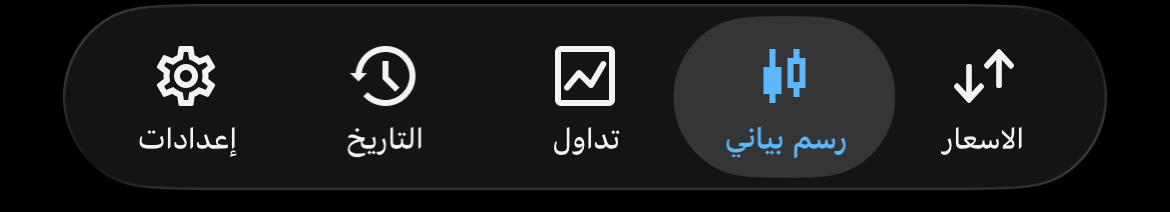
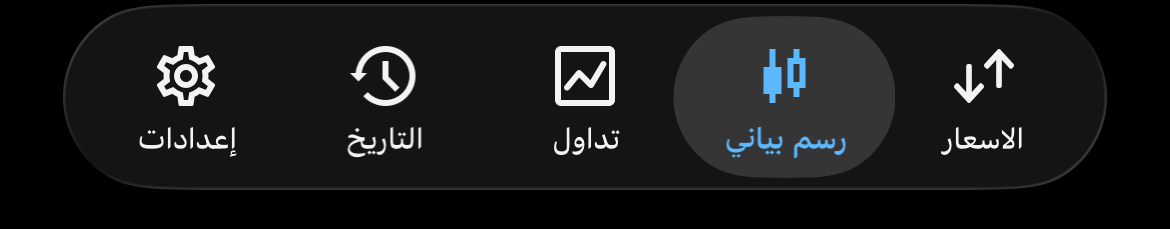
Add files via upload

diff --git a/index.html b/index.html
@@ -18,7 +18,7 @@
     <link rel="preconnect" href="https://fonts.gstatic.com" crossorigin>
     <link href="https://fonts.googleapis.com/css2?family=Inter:wght@400;500;700&family=Lato:wght@400;700&family=Montserrat:wght@400;500;700&family=Open+Sans:wght@400;600&family=Outfit:wght@400;500;700&family=Poppins:wght@400;500;600&family=Roboto:wght@400;500&display=swap" rel="stylesheet">
     
-    <link rel="stylesheet" href="styles.css?v=85">
+    <link rel="stylesheet" href="styles.css?v=88">
 </head>
 <body>
     <!-- Global error catcher to display any mobile browser javascript crash on screen -->
@@ -273,24 +273,24 @@
                         <!-- Account Metrics Summary -->
                         <div class="trade-account-summary">
                             <div class="trade-account-row">
-                                <span class="trade-row-label">رصيد الحساب:</span>
                                 <span class="trade-row-val" id="trade-balance-val">0.00</span>
+                                <span class="trade-row-label">رصيد الحساب:</span>
                             </div>
                             <div class="trade-account-row">
-                                <span class="trade-row-label">راس المال المتوفر:</span>
                                 <span class="trade-row-val" id="trade-equity-val">0.00</span>
+                                <span class="trade-row-label">راس المال المتوفر:</span>
                             </div>
                             <div class="trade-account-row" id="trade-margin-row" style="display: none;">
-                                <span class="trade-row-label">الهامش:</span>
                                 <span class="trade-row-val" id="trade-margin-val">0.00</span>
+                                <span class="trade-row-label">الهامش:</span>
                             </div>
                             <div class="trade-account-row">
-                                <span class="trade-row-label">هامش الحرية:</span>
                                 <span class="trade-row-val" id="trade-margin-free-val">0.00</span>
+                                <span class="trade-row-label">هامش الحرية:</span>
                             </div>
                             <div class="trade-account-row" id="trade-margin-level-row" style="display: none;">
-                                <span class="trade-row-label">مستوى الهامش (%):</span>
                                 <span class="trade-row-val" id="trade-margin-level-val">0.00</span>
+                                <span class="trade-row-label">مستوى الهامش (%):</span>
                             </div>
                         </div>
 
@@ -315,7 +315,7 @@
                     <div class="trade-action-sheet-overlay hidden" id="trade-action-sheet-overlay">
                         <div class="trade-action-sheet" id="trade-action-sheet">
                             <div class="trade-sheet-header">
-                                <div class="trade-sheet-title" id="trade-sheet-title">XAUUSD.s, buy 0.2</div>
+                                <div class="trade-sheet-title" id="trade-sheet-title">XAUUSD, buy 0.2</div>
                                 <div class="trade-sheet-sub" id="trade-sheet-sub">4346.50 &larr; 3651.72</div>
                             </div>
                             <div class="trade-sheet-actions">
@@ -566,7 +566,7 @@
                                 <input type="number" id="setting-trade-font-size-account" value="14" step="any" style="width: 60px; text-align: center;">
                             </div>
                             <div class="settings-item">
-                                <span>حجم خط رمز وعقد الصفقة (XAUUSD.s / Lot)</span>
+                                <span>حجم خط رمز وعقد الصفقة (XAUUSD / Lot)</span>
                                 <input type="number" id="setting-trade-font-size-symbol" value="14.5" step="any" style="width: 60px; text-align: center;">
                             </div>
                             <div class="settings-item">
@@ -949,6 +949,6 @@
         </div>
     </div>
 
-    <script src="app.js?v=85"></script>
+    <script src="app.js?v=88"></script>
 </body>
 </html>

diff --git a/styles.css b/styles.css
@@ -356,7 +356,7 @@ button, input, select, textarea {
     flex: 1;
     position: relative;
     overflow: hidden;
-    background: #fff;
+    background: #000000;
 }
 
 #main-chart-canvas {
@@ -705,8 +705,9 @@ button, input, select, textarea {
     position: relative;
     width: 100%;
     height: auto;
-    background: var(--bg-page-header);
-    border-top: none; /* removed line between time scale and bottom bar */
+    background: #000000 !important;
+    background-color: #000000 !important;
+    border-top: none !important;
     flex-shrink: 0;
     z-index: 50;
 }
@@ -824,12 +825,18 @@ body.trade-tab-active .bottom-nav-container {
     display: flex;
     align-items: center;
     justify-content: center;
+    align-self: center;
     color: #ffffff;
     cursor: pointer;
     outline: none;
     transition: transform 0.1s ease, opacity 0.15s ease;
     padding: 0;
+    margin: 0;
     overflow: hidden;
+}
+
+.trade-header-plus-btn {
+    margin-top: 2px; /* Moves left sticker down to align perfectly with right sticker */
 }
 
 .trade-header-btn:active {
@@ -878,7 +885,7 @@ body.trade-tab-active .bottom-nav-container {
 .trade-account-summary {
     padding: 2px 0 10px 0;
     background-color: #000000;
-    direction: rtl;
+    direction: ltr;
 }
 
 .trade-account-row {
@@ -888,6 +895,7 @@ body.trade-tab-active .bottom-nav-container {
     padding: 3.5px 6px;
     font-size: 14px;
     line-height: 1.35;
+    direction: ltr;
 }
 
 .trade-row-label {
@@ -895,6 +903,8 @@ body.trade-tab-active .bottom-nav-container {
     font-size: var(--trade-font-size-account, 14px);
     font-family: var(--trade-font-family, inherit);
     font-weight: var(--trade-font-weight-text, 400);
+    direction: rtl;
+    text-align: right;
 }
 
 .trade-row-val {
@@ -906,6 +916,9 @@ body.trade-tab-active .bottom-nav-container {
     letter-spacing: var(--trade-numbers-spacing, 0px);
     direction: ltr;
     text-align: left;
+    margin: 0;
+    padding: 0;
+    white-space: nowrap;
 }
 
 /* 4. Empty State: Center MT5 Trending Icon */
@@ -960,8 +973,8 @@ body.trade-tab-active .bottom-nav-container {
     display: flex;
     justify-content: space-between;
     align-items: center;
-    padding: 11px 6px;
-    border-bottom: 0.5px solid rgba(255, 255, 255, 0.09);
+    padding: 9.5px 6px;
+    border-bottom: none;
     background-color: #000000;
     cursor: pointer;
     direction: ltr; /* P/L on Left, Details on Right */
@@ -979,6 +992,10 @@ body.trade-tab-active .bottom-nav-container {
     font-family: var(--trade-font-numbers, inherit);
     letter-spacing: var(--trade-numbers-spacing, -0.3px);
     text-align: left;
+    direction: ltr;
+    margin: 0;
+    padding: 0;
+    white-space: nowrap;
 }
 
 .trade-pos-profit.profit {
@@ -1009,6 +1026,15 @@ body.trade-tab-active .bottom-nav-container {
 .trade-pos-symbol {
     color: #ffffff;
     font-family: var(--trade-font-family, inherit);
+    display: inline-block;
+    width: 43px;
+    height: 12px;
+    line-height: 12px;
+    font-size: 11.5px;
+    letter-spacing: -0.5px;
+    text-align: left;
+    overflow: visible;
+    white-space: nowrap;
 }
 
 .trade-pos-side {

diff --git a/app.js b/app.js
@@ -568,6 +568,7 @@ function drawChartFrame() {
     
     for (let i = 0; i < priceCount; i++) {
         const y = yStart + i * yStep;
+        if (y > MARGIN_TOP + chartHeight - 6) break;
         const gridPrice = getPriceFromY(y);
         
         // Horizontal grid line removed
@@ -2506,27 +2507,13 @@ function updateTradeTabUI() {
             const isProfit = pos.profit >= 0;
             const profitStr = formatFinancial(pos.profit);
             const sideClass = pos.type.toLowerCase();
-            const symbolDisplay = 'XAUUSD.s';
+            const symbolDisplay = 'XAUUSD';
             
             const row = document.createElement('div');
             row.className = 'trade-pos-row';
             row.dataset.id = pos.id;
             
-            row.innerHTML = `
-                <div class="trade-pos-profit ${isProfit ? 'profit' : 'loss'}">
-                    ${profitStr}
-                </div>
-                <div class="trade-pos-info">
-                    <div class="trade-pos-header-line">
-                        <span class="trade-pos-symbol">${symbolDisplay}</span>
-                        <span class="trade-pos-side ${sideClass}">${sideClass}</span>
-                        <span class="trade-pos-volume">${pos.lot.toFixed(pos.lot % 1 === 0 ? 1 : 2)}</span>
-                    </div>
-                    <div class="trade-pos-prices">
-                        ${currentClosePrice.toFixed(2)} &larr; ${pos.openPrice.toFixed(2)}
-                    </div>
-                </div>
-            `;
+            row.innerHTML = `<div class="trade-pos-profit ${isProfit ? 'profit' : 'loss'}">${profitStr}</div><div class="trade-pos-info"><div class="trade-pos-header-line"><span class="trade-pos-symbol">${symbolDisplay}</span><span class="trade-pos-side ${sideClass}">${sideClass}</span><span class="trade-pos-volume">${pos.lot.toFixed(pos.lot % 1 === 0 ? 1 : 2)}</span></div><div class="trade-pos-prices">${currentClosePrice.toFixed(2)} &larr; ${pos.openPrice.toFixed(2)}</div></div>`;
             
             row.addEventListener('click', () => {
                 openTradeActionSheet(pos);
@@ -2546,7 +2533,7 @@ function openTradeActionSheet(pos) {
     
     const currentClosePrice = pos.type === 'BUY' ? State.currentBid : State.currentAsk;
     if (titleEl) {
-        titleEl.textContent = `XAUUSD.s, ${pos.type.toLowerCase()} ${pos.lot.toFixed(2)}`;
+        titleEl.textContent = `XAUUSD, ${pos.type.toLowerCase()} ${pos.lot.toFixed(2)}`;
     }
     if (subEl) {
         subEl.innerHTML = `${currentClosePrice.toFixed(2)} &larr; ${pos.openPrice.toFixed(2)}`;

diff --git a/sw.js b/sw.js
@@ -1,4 +1,4 @@
-const CACHE_NAME = 'mt5-simulator-v85';
+const CACHE_NAME = 'mt5-simulator-v88';
 const ASSETS = [
   './',
   './index.html',
